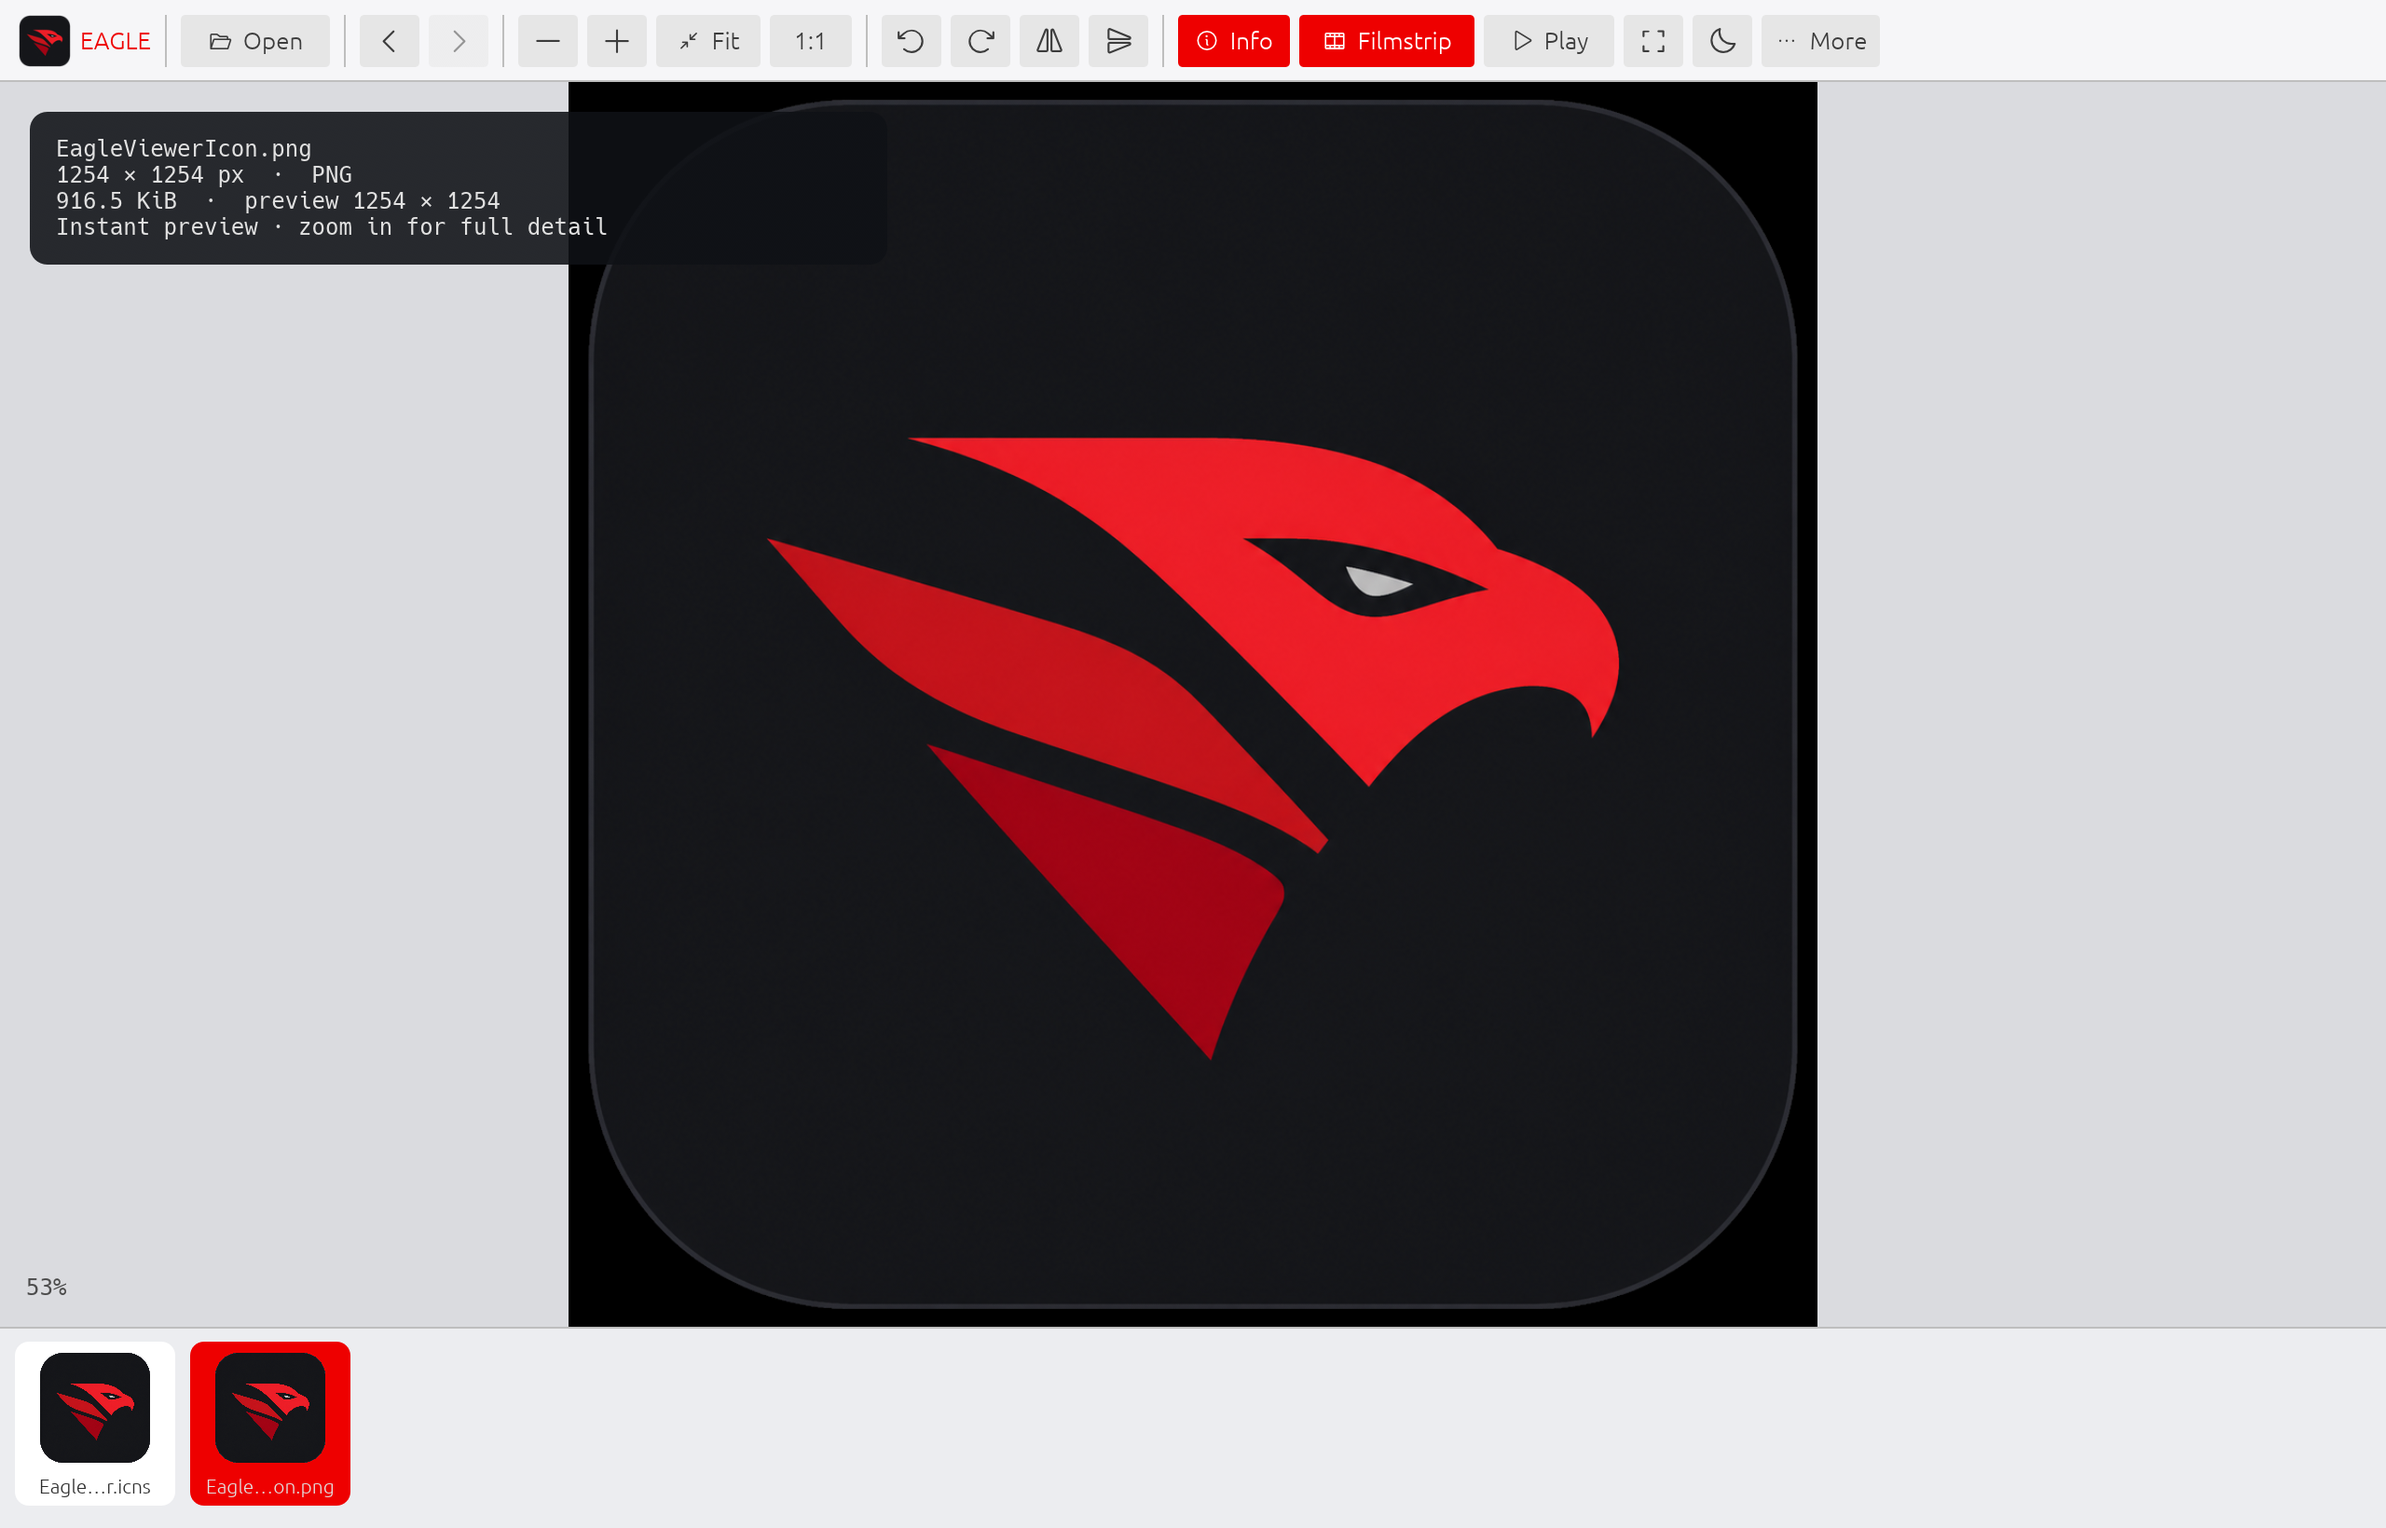
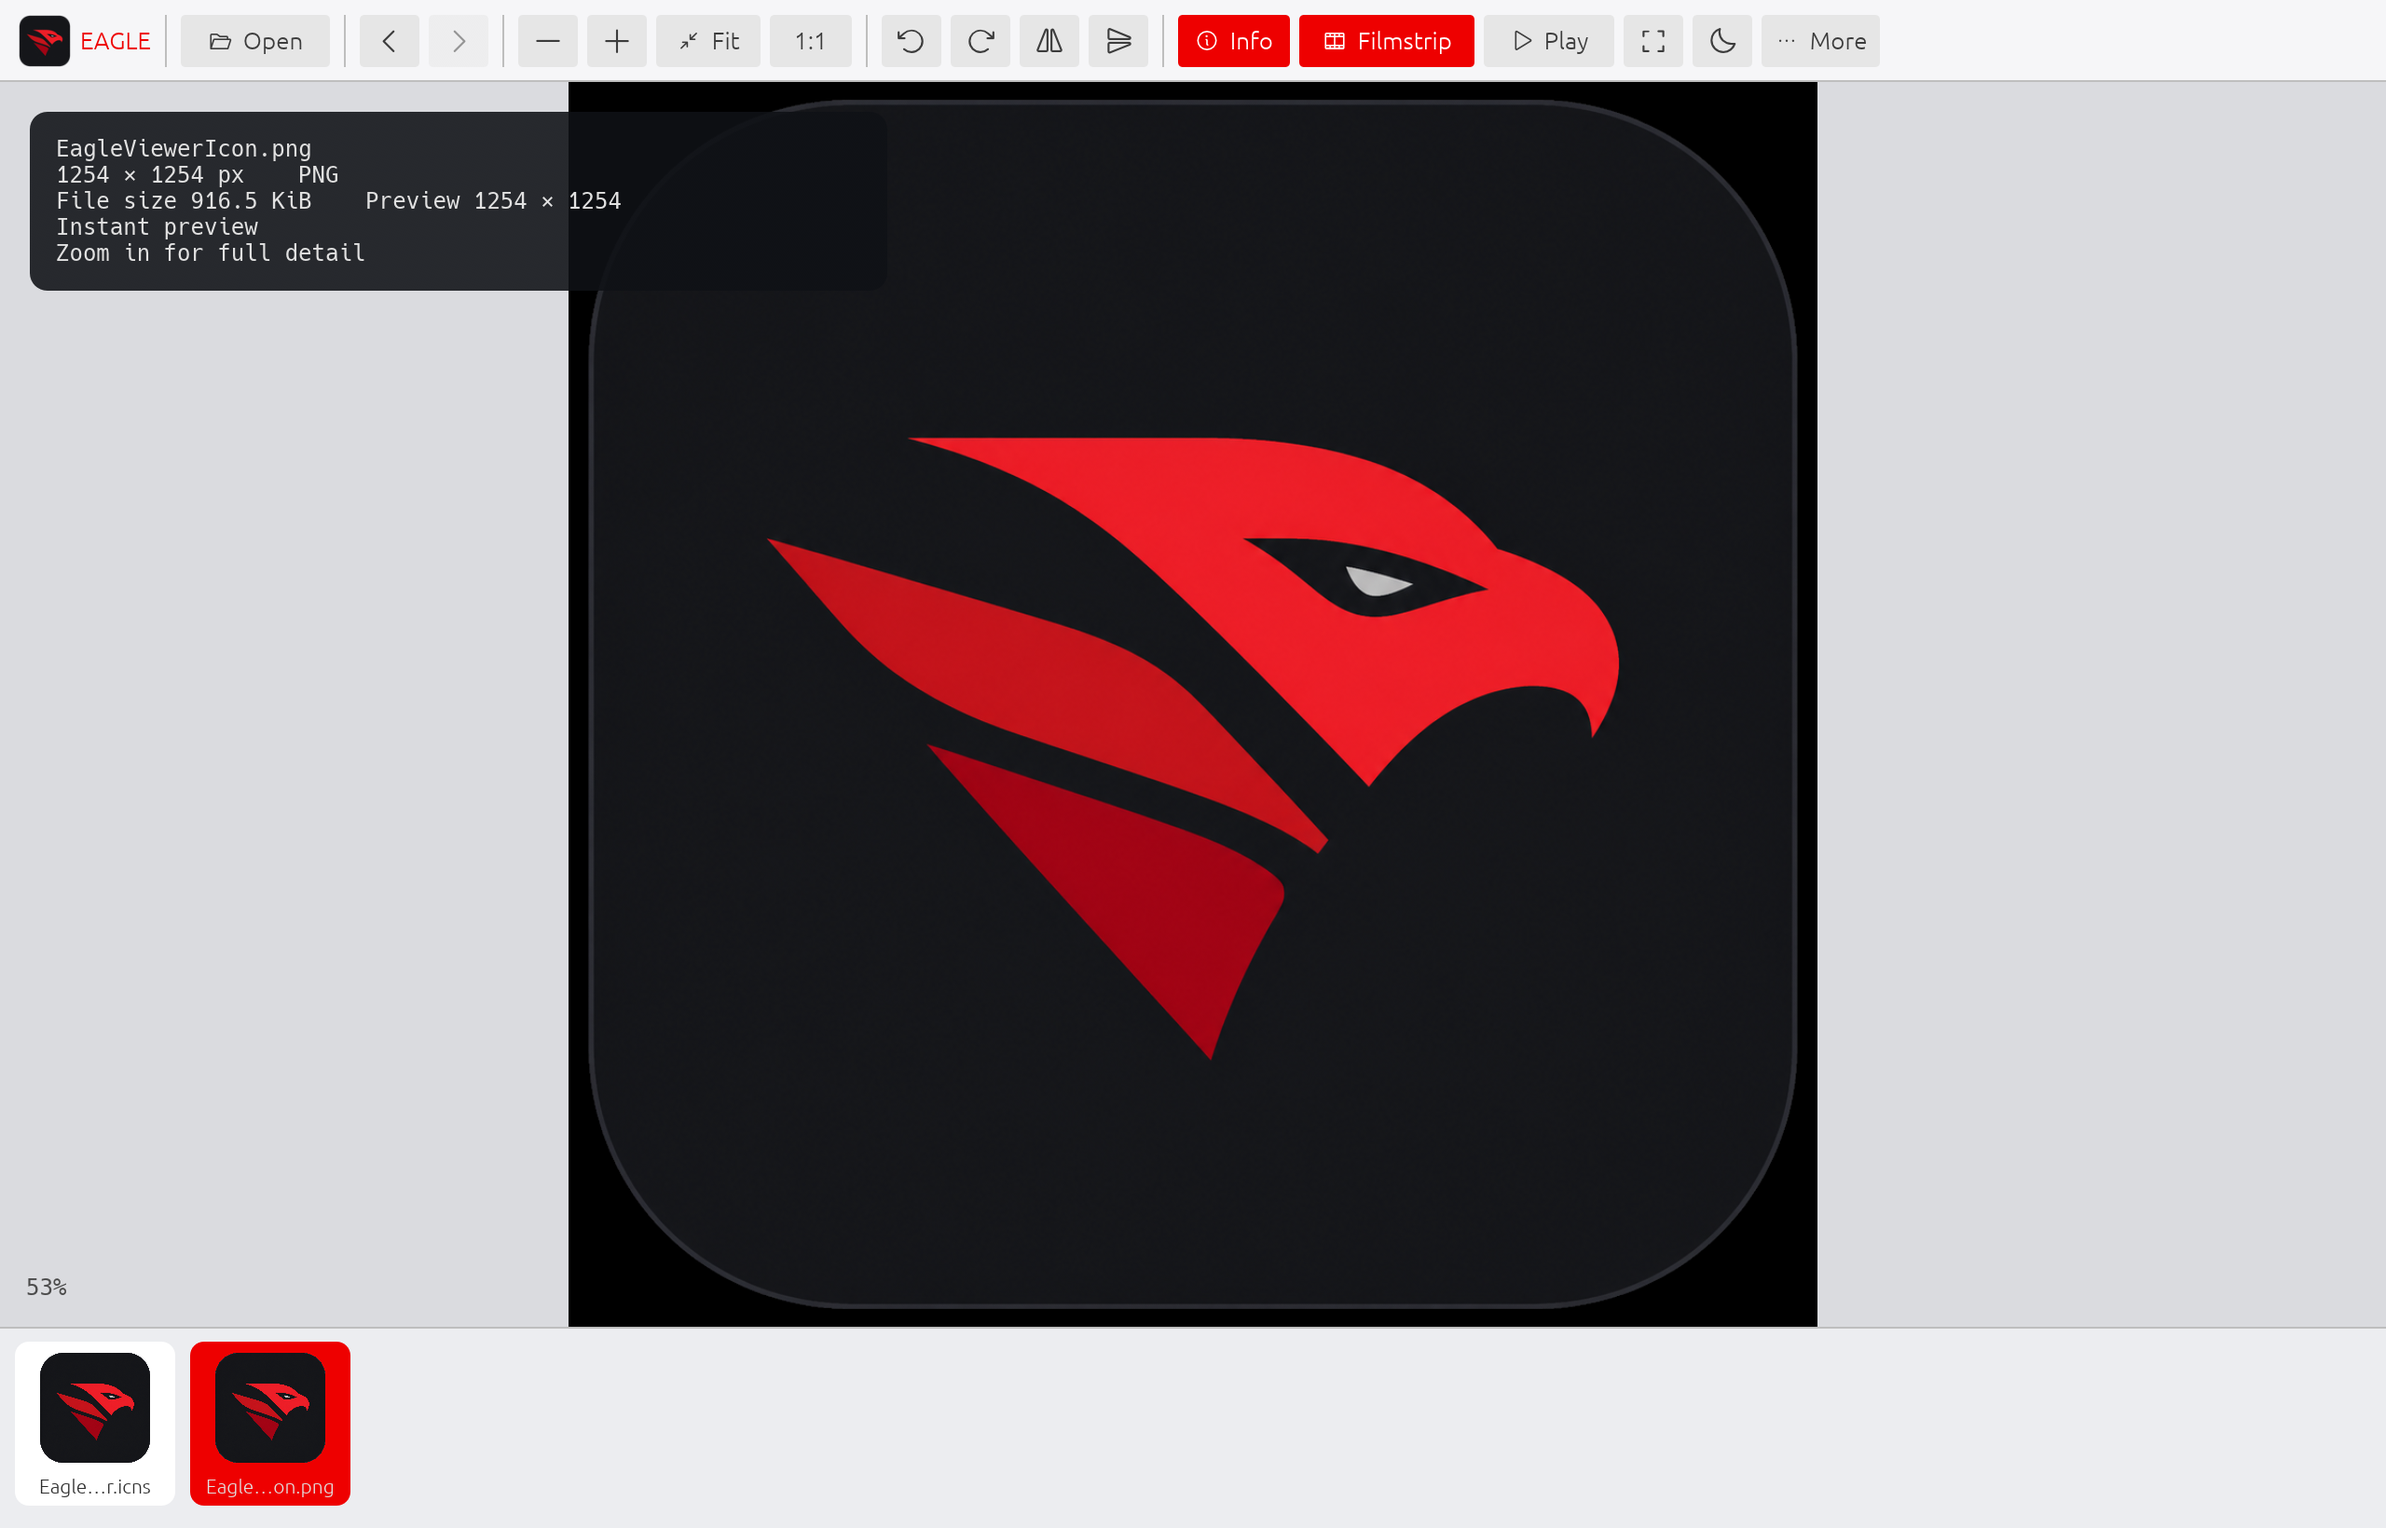
fix: remove interpuncts from interface text

Changed region(s): [[0.0, 0.0933, 0.25, 0.2177]]

diff --git a/src/app.rs b/src/app.rs
@@ -1714,22 +1714,22 @@ impl EagleApp {
                             .unwrap_or(0);
                         let detail_status = if let Some(detail) = &self.detail {
                             format!(
-                                "Full detail ready · {:.0} ms · {} tiles resident",
+                                "Full detail ready in {:.0} ms, {} tiles resident",
                                 detail.elapsed.as_secs_f64() * 1000.0,
                                 self.tiles.len()
                             )
                         } else if self.detail_loading {
                             "Building SSD-backed full detail…".into()
                         } else if let Some(error) = &self.detail_error {
-                            format!("Preview only · {}", truncate_end(error, 120))
+                            format!("Preview only: {}", truncate_end(error, 120))
                         } else {
-                            "Instant preview · zoom in for full detail".into()
+                            "Instant preview\nZoom in for full detail".into()
                         };
                         let text_color = Color32::from_gray(225);
                         let file_name =
                             image.path.file_name().unwrap_or_default().to_string_lossy();
                         let info_text = format!(
-                            "{}\n{} × {} px  ·  {}\n{}  ·  preview {} × {}\n{}",
+                            "{}\n{} × {} px    {}\nFile size {}    Preview {} × {}\n{}",
                             truncate_middle(&file_name, 100),
                             image.original_size[0],
                             image.original_size[1],

diff --git a/src/bin/card-scout.rs b/src/bin/card-scout.rs
@@ -219,7 +219,7 @@ impl CardScoutApp {
 
         let selected_label = self
             .selected()
-            .map(|state| format!("{}  ·  {}", state.volume.name, state.volume.size))
+            .map(|state| format!("{} ({})", state.volume.name, state.volume.size))
             .unwrap_or_else(|| "No removable disks found".into());
 
         ui.add_enabled_ui(!self.busy && !self.snapshot.volumes.is_empty(), |ui| {
@@ -255,7 +255,7 @@ impl CardScoutApp {
                         ui.label(RichText::new(&state.volume.name).size(18.0).strong());
                         ui.label(
                             RichText::new(format!(
-                                "{}  ·  {}  ·  {} free  ·  {}",
+                                "{}    {}    {} free    {}",
                                 state.volume.device,
                                 state.volume.filesystem,
                                 state.volume.free_space,
@@ -325,7 +325,7 @@ impl CardScoutApp {
                         ui.label(RichText::new("●").color(WARNING));
                         ui.label(RichText::new(&holder.command).size(17.0).strong());
                         ui.label(
-                            RichText::new(format!("PID {}  ·  {}", holder.pid, holder.user))
+                            RichText::new(format!("PID {}    {}", holder.pid, holder.user))
                                 .monospace()
                                 .small()
                                 .color(Color32::from_gray(140)),

diff --git a/CHANGELOG.md b/CHANGELOG.md
@@ -4,6 +4,12 @@ All notable changes to Eagle Viewer will be documented in this file. The project
 
 ## [Unreleased]
 
+## [0.3.2] - 2026-08-12
+
+### Changed
+
+- Removed interpunct separators from all Eagle Viewer and Card Scout interface text in favor of plain spacing, sentences, and line breaks.
+
 ## [0.3.1] - 2026-08-12
 
 ### Changed
@@ -75,7 +81,8 @@ All notable changes to Eagle Viewer will be documented in this file. The project
 - Camera RAW embedded previews, including Sony ARW.
 - Native macOS fallback, folder prefetch, filmstrip and slideshow.
 
-[Unreleased]: https://github.com/rgcsekaraa/eagle-viewer/compare/v0.3.1...HEAD
+[Unreleased]: https://github.com/rgcsekaraa/eagle-viewer/compare/v0.3.2...HEAD
+[0.3.2]: https://github.com/rgcsekaraa/eagle-viewer/compare/v0.3.1...v0.3.2
 [0.3.1]: https://github.com/rgcsekaraa/eagle-viewer/compare/v0.3.0...v0.3.1
 [0.3.0]: https://github.com/rgcsekaraa/eagle-viewer/compare/v0.2.1...v0.3.0
 [0.2.1]: https://github.com/rgcsekaraa/eagle-viewer/compare/v0.2.0...v0.2.1
